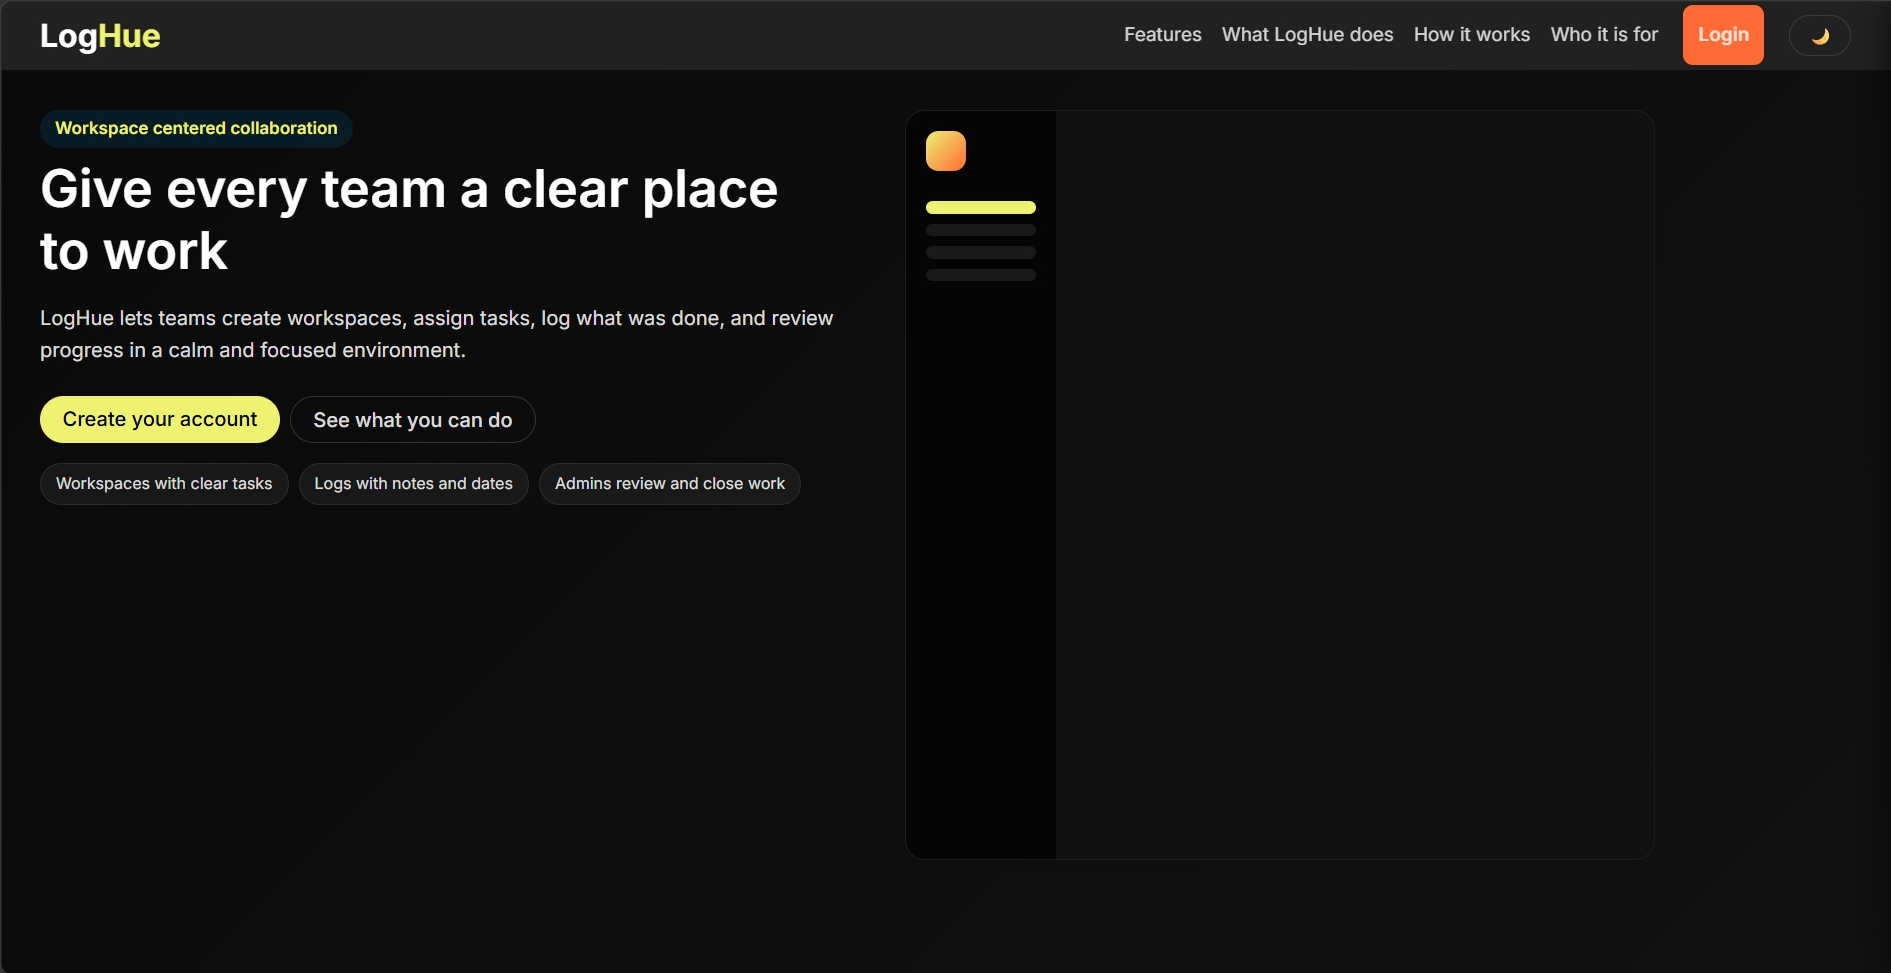
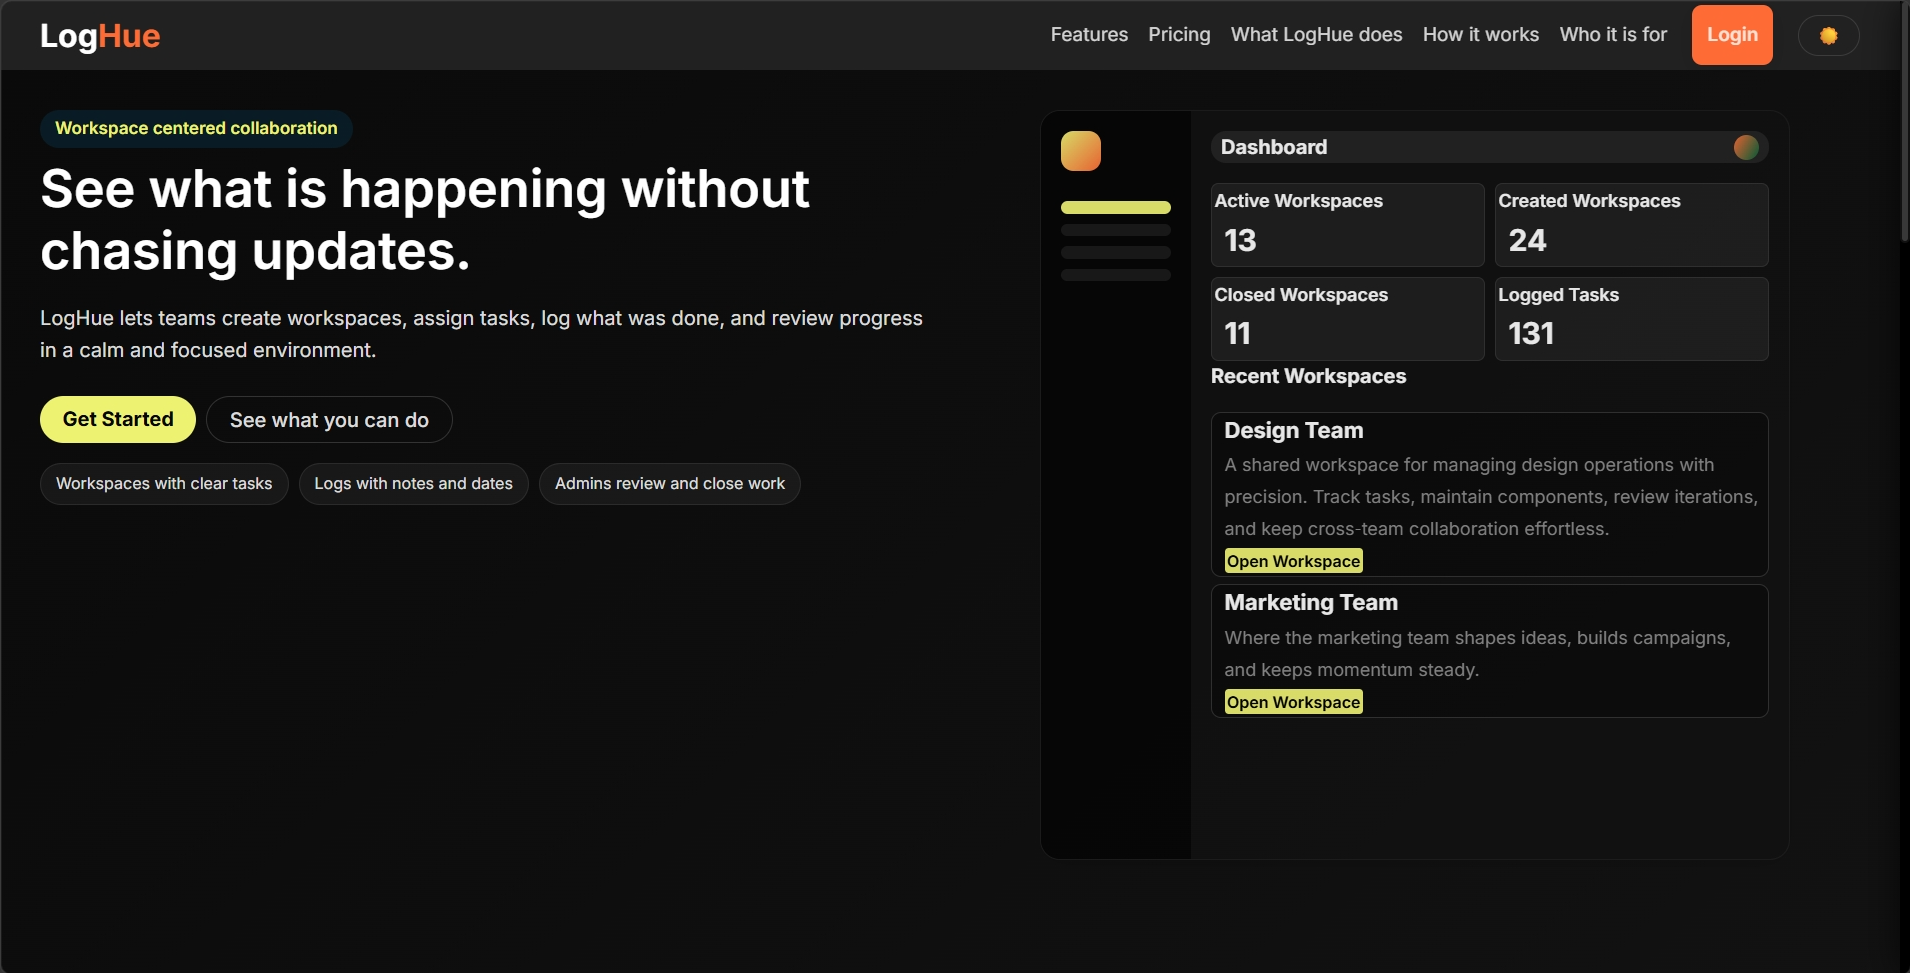
fix the mock shel in landing page and change og images

diff --git a/css/landing.css b/css/landing.css
@@ -196,10 +196,11 @@ aside.mobile-sidebar .nav-login:hover {
 .cta-btn {
   background: var(--primary);
   color: #050505;
+  font-weight: 700;
 }
 .cta-btn:hover {
   text-decoration: none;
-  background: #016497;
+  background: var(--accent);
 }
 .secondary-btn {
   border: 1px solid rgba(255, 255, 255, 0.16);
@@ -240,6 +241,7 @@ aside.mobile-sidebar .nav-login:hover {
   box-shadow: var(--shadow);
   display: flex;
   border: 1px solid rgba(255, 255, 255, 0.05);
+  opacity: 0.9;
 }
 .mock-sidebar {
   width: 120px;
@@ -272,11 +274,143 @@ aside.mobile-sidebar .nav-login:hover {
   flex-direction: column;
   gap: var(--space-md);
 }
-.mock-topbar {
-  display: flex;
-  justify-content: space-between;
-  align-items: center;
-} 
+ .mock-topbar {
+        display: flex;
+        justify-content: space-between;
+        align-items: center;
+        width: 100%;
+        padding: 0 8px;
+        background: #232323;
+        border-radius: 12px;
+      }
+      .mock-title::before {
+        content: "Dashboard";
+        font-weight: 700;
+      }
+      .mock-user {
+        width: 20px;
+        height: 20px;
+        background: linear-gradient(120deg, var(--accent), var(--secondary));
+        border-radius: 50%;
+        corner-shape: round;
+      }
+      .mock-stats-row {
+        display: grid;
+        grid-template-columns: 1fr 1fr;
+        height: 100px;
+        gap: 8px;
+        margin-bottom: 25px;
+      }
+      .mock-stat-card {
+        padding: 2px;
+        font-size: 0.9rem;
+        background-color: #1f1f1f;
+        overflow-x: hidden;
+        min-height: 67px;
+        border-radius: 6px;
+        border: 1px solid var(--border);
+      }
+      .mock-stat-card:nth-child(1)::before {
+       content: "Active Workspaces";
+       display: block;
+               font-weight: 600;
+     }
+     .mock-stat-card:nth-child(1):after {
+       content: "13";
+       margin: 0 0 0 8px;
+       display: block;
+       font-size: 1.5rem;
+       font-weight: 700;
+     }
+      .mock-stat-card:nth-child(2)::before {
+        content: "Created Workspaces";
+        display: block;
+                font-weight: 600;
+      }
+      .mock-stat-card:nth-child(2):after {
+        content: "24";
+        margin: 0 0 0 8px;
+        display: block;
+        font-size: 1.5rem;
+        font-weight: 700;
+      }
+       .mock-stat-card:nth-child(3)::before {
+        content: "Closed Workspaces";
+        display: block;
+                font-weight: 600;
+      }
+      .mock-stat-card:nth-child(3):after {
+        content: "11";
+        margin: 0 0 0 8px;
+        display: block;
+        font-size: 1.5rem;
+        font-weight: 700;
+      }
+       .mock-stat-card:nth-child(4)::before {
+        content: "Logged Tasks";
+        display: block;
+                font-weight: 600;
+      }
+      .mock-stat-card:nth-child(4):after {
+        content: "131";
+        margin: 0 0 0 8px;
+        display: block;
+        font-size: 1.5rem;
+        font-weight: 700;
+      }
+      .mock-section-title {
+        font-weight: 700;
+      }
+      .mock-section-title::before {
+content: "Recent Workspaces";
+      }
+      .mock-workspace-list {
+        display: flex;
+        flex-direction: column;
+gap: 6px;
+      }
+      .mock-workspace-card {
+        width: 100%;
+        background-color: #0b0b0b;
+        border: 1px solid var(--border);
+        border-radius: var(--radius);
+        padding: 0 0 0 10px;
+      }
+       .mock-workspace-name {
+font-size: 1.1rem;
+font-weight: 700;
+      }
+      .mock-workspace-card:nth-child(1) .mock-workspace-name::before {
+        content: "Design Team";
+      }
+      .mock-workspace-card:nth-child(1) .mock-workspace-meta:before {
+        content: "A shared workspace for managing design operations with precision. Track tasks, maintain components, review iterations, and keep cross‑team collaboration effortless.";
+        color: #8d8d8d;
+        font-size: 0.9rem;
+      }
+        .mock-workspace-card:nth-child(2) .mock-workspace-name::before {
+        content: "Marketing Team";
+      }
+      .mock-workspace-card:nth-child(2) .mock-workspace-meta:before {
+        content: "Where the marketing team shapes ideas, builds campaigns, and keeps momentum steady.";
+        color: #8d8d8d;
+        font-size: 0.9rem;
+      }
+      .mock-chip::before {
+content: "Open Workspace";
+background: var(--primary);
+color: #000;
+font-size: 0.8rem;
+font-weight: 600;
+border-radius: 3px;
+padding: 2px;
+      }
+      .mock-chip:hover {
+        transform: translateY(-1px);
+        transition: all 0.4s ease;
+        width: fit-content;
+      }
+
 /* ------------------------- */ /* SECTIONS: FEATURES, WHAT, HOW, WHO, EXAMPLE, JOINWAITLIST */ /* ------------------------- */
 .section {
   padding: var(--space-xl) var(--space-xl);

diff --git a/index.html b/index.html
@@ -3,8 +3,7 @@
   <head>
     <meta charset="UTF-8" />
     <meta name="viewport" content="width=device-width, initial-scale=1.0" />
-    <title>LogHue</title>
-
+    <title>LogHue | Calm workspace management for modern teams</title>
     <meta
       name="description"
       content="LogHue is a workspace‑centric collaboration platform built for clarity, modularity, and scalable team workflows. Create, organize, and collaborate without chaos."
@@ -101,7 +100,7 @@
       <nav class="nav desktop-nav">
         <a href="features">Features</a>
         <a href="pricing">Pricing</a>
-         <a href="#what">What LogHue does</a>
+        <a href="#what">What LogHue does</a>
         <a href="#how">How it works</a> <a href="#who">Who it is for</a>
         <a
           href="https://app.loghue.com/auth"
@@ -116,10 +115,10 @@
     <!-- MOBILE SIDEBAR -->
     <aside id="mobileSidebar" class="mobile-sidebar">
       <button id="closeSidebar" class="close-sidebar">×</button>
-         <a href="features">Features</a> 
-         <a href="pricing.html">Pricing</a>
-         <a href="#what">What LogHue does</a>
-         <a href="#what">What LogHue does</a>
+      <a href="features">Features</a>
+      <a href="pricing.html">Pricing</a>
+      <a href="#what">What LogHue does</a>
+      <a href="#what">What LogHue does</a>
       <a href="#how">How it works</a> <a href="#who">Who it is for</a>
       <a
         href="https://app.loghue.com/auth"
@@ -127,7 +126,7 @@
         class="btn nav-login"
         >Login</a
       >
-      <a href="https://app.loghue.com"  class="btn">Dashboard</a>
+      <a href="https://app.loghue.com" class="btn">Dashboard</a>
     </aside>
     <main>
       <!-- HERO -->
@@ -142,7 +141,7 @@
             </p>
             <div class="hero-actions">
               <a href="https://app.loghue.com/auth" class="cta-btn"
-                >Create your account</a
+                >Get Started</a
               >
               <a href="#what" class="secondary-btn">See what you can do</a>
             </div>
@@ -180,20 +179,14 @@
                       <div class="mock-workspace-name"></div>
                       <div class="mock-workspace-meta"></div>
                     </div>
-                    <div class="mock-workspace-actions">
                       <div class="mock-chip"></div>
-                      <div class="mock-chip primary"></div>
-                    </div>
                   </div>
                   <div class="mock-workspace-card">
                     <div class="mock-workspace-main">
                       <div class="mock-workspace-name"></div>
                       <div class="mock-workspace-meta"></div>
                     </div>
-                    <div class="mock-workspace-actions">
                       <div class="mock-chip"></div>
-                      <div class="mock-chip primary"></div>
-                    </div>
                   </div>
                 </div>
               </div>
@@ -241,7 +234,8 @@
           </div>
         </div>
       </section>
-      <!-- JOIN WAITLIST -->
+
+      <!-- JOIN WAITLIST
       <section id="joinWaitlist" class="section join-waitlist">
         <div class="section-inner">
           <h2>Join Waitlist</h2>
@@ -256,7 +250,7 @@
             class="form"
             action="https://formspree.io/f/xeeralbq"
             method="POST"
-          >
+            >
             <label for="waitlistEmailInputMain">Your email:</label>
             <div class="singleInput">
               <input
@@ -271,6 +265,8 @@
           </form>
         </div>
       </section>
+      -->
+
       <!-- WHAT -->
       <section id="what" class="section what">
         <div class="section-inner">
